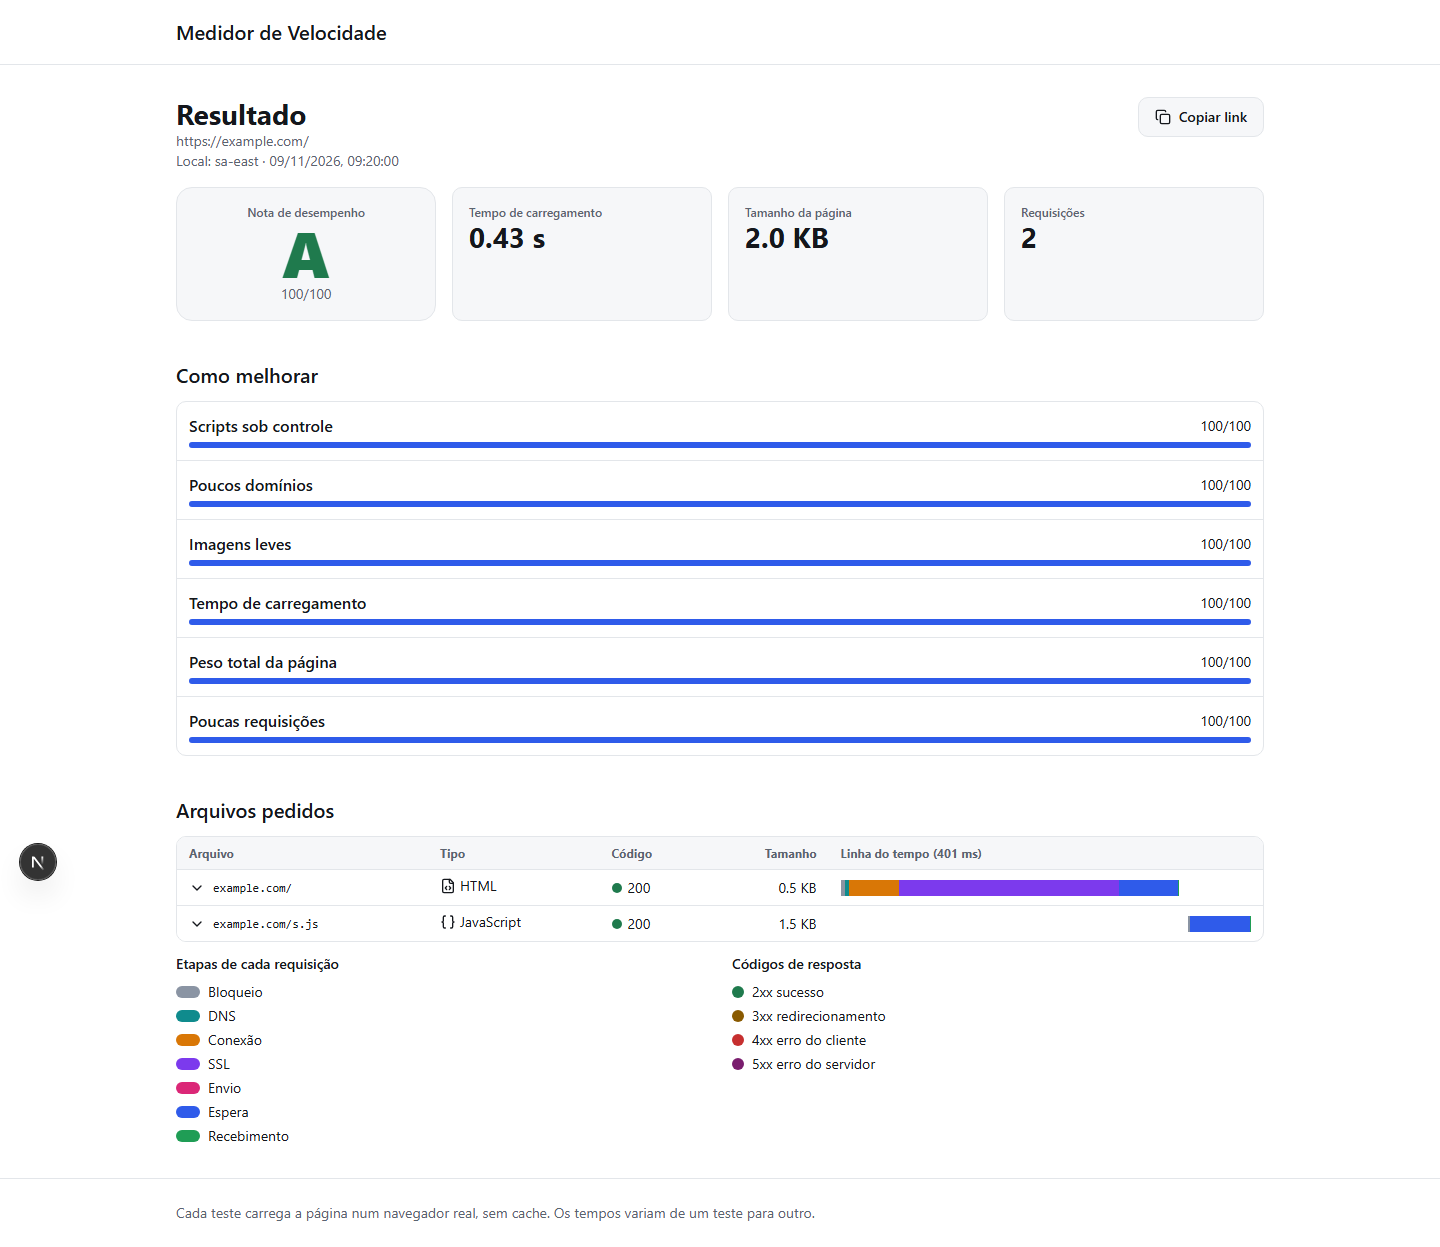
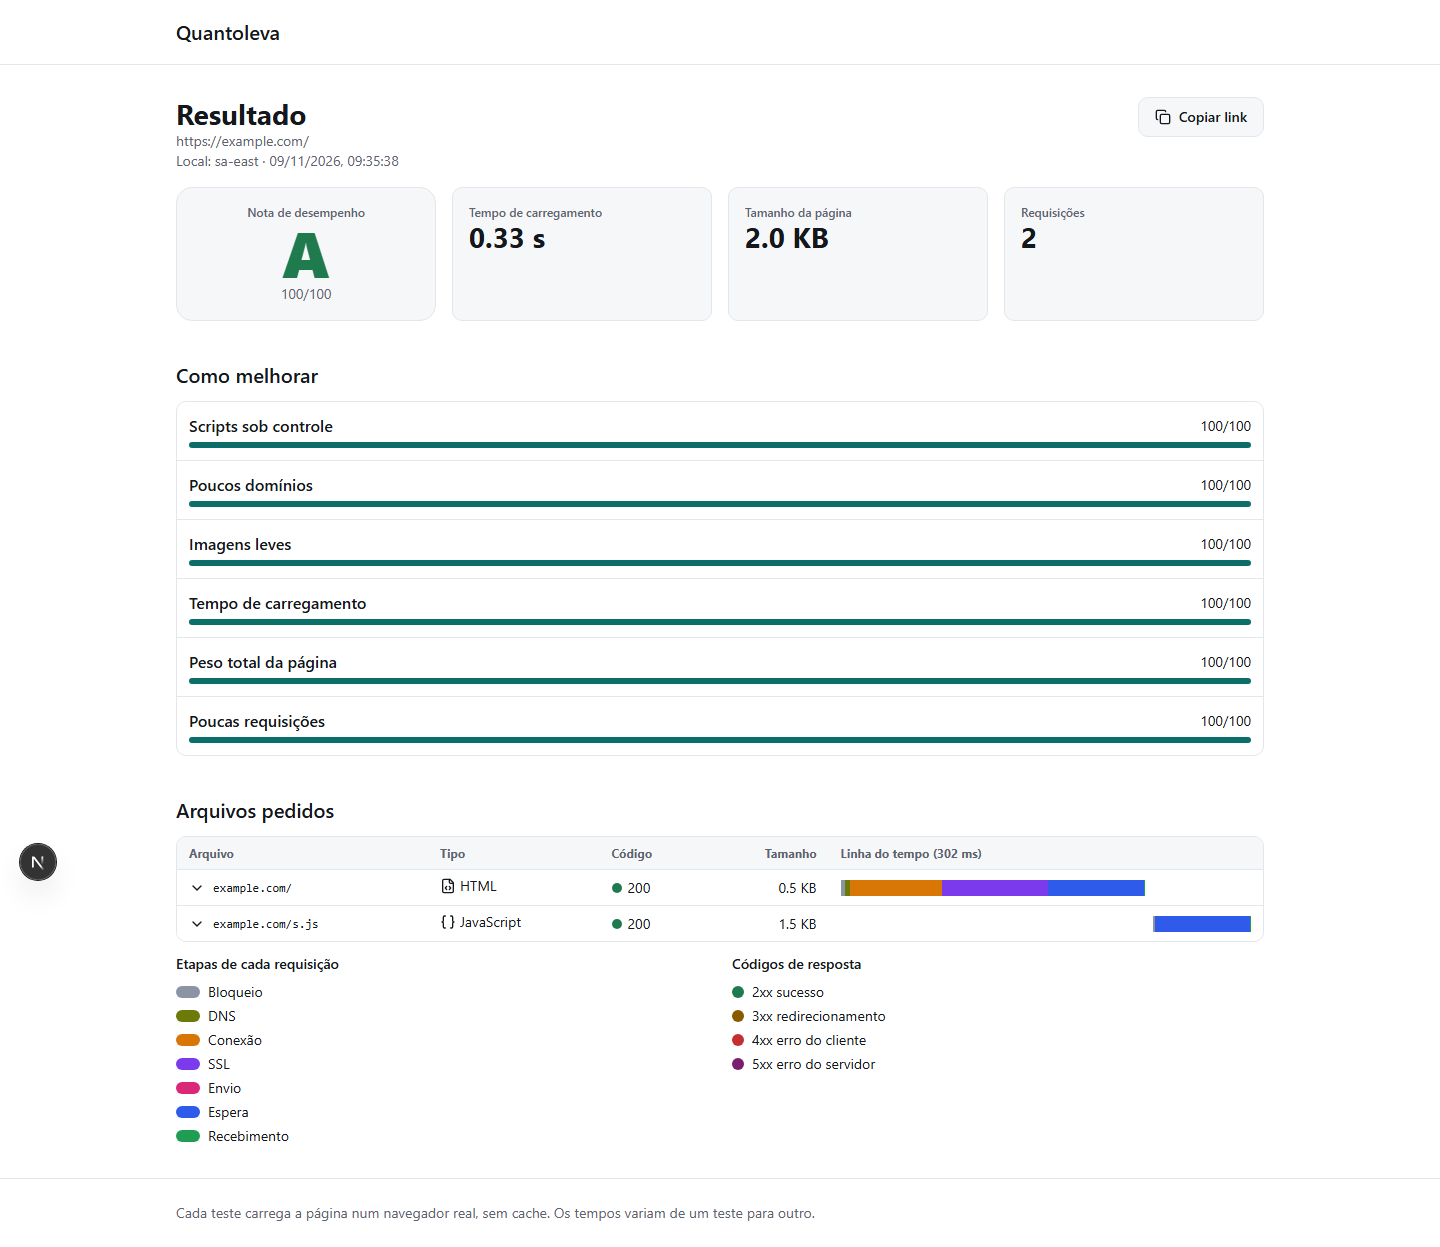
brand: working name, teal palette, voice and clean sweep

diff --git a/src/app/layout.tsx b/src/app/layout.tsx
@@ -1,10 +1,11 @@
 import type { Metadata } from "next";
 import Link from "next/link";
+import { BRAND } from "@/lib/brand";
 import "./globals.css";
 
 export const metadata: Metadata = {
-  title: "Medidor de Velocidade",
-  description: "Teste a velocidade de carregamento de qualquer página e veja onde o tempo é gasto.",
+  title: `${BRAND.name}: ${BRAND.tagline}`,
+  description: "Carregamos a sua página num navegador de verdade e mostramos o tempo, o peso e cada arquivo pedido.",
 };
 
 export default function RootLayout({ children }: { children: React.ReactNode }) {
@@ -13,7 +14,7 @@ export default function RootLayout({ children }: { children: React.ReactNode }) 
       <body>
         <header className="border-b border-border">
           <div className="mx-auto flex h-16 max-w-content items-center px-4">
-            <Link href="/" className="text-lg font-semibold">Medidor de Velocidade</Link>
+            <Link href="/" className="text-lg font-semibold">{BRAND.name}</Link>
           </div>
         </header>
         <main className="mx-auto max-w-content px-4 py-8">{children}</main>

diff --git a/src/app/page.tsx b/src/app/page.tsx
@@ -1,6 +1,7 @@
 import { TestForm } from "@/components/TestForm";
 import { Legend } from "@/components/Legend";
 import { listLocations } from "@/lib/data";
+import { BRAND } from "@/lib/brand";
 
 export const dynamic = "force-dynamic"; // the location list depends on live workers
 
@@ -9,9 +10,9 @@ export default async function Home() {
   return (
     <div className="space-y-12">
       <section className="mx-auto max-w-2xl space-y-6 text-center">
-        <h1 className="text-display">Quão rápida é a sua página?</h1>
+        <h1 className="text-display">{BRAND.tagline}</h1>
         <p className="text-muted">
-          Informe um endereço, escolha de onde testar e veja o tempo de carregamento, o peso e cada arquivo pedido.
+          Cole o endereço e escolha de onde testar. Mostramos o tempo, o peso e cada arquivo que a página pede.
         </p>
         <TestForm locations={locations} />
       </section>

diff --git a/replica/design/tokens.css b/replica/design/tokens.css
@@ -6,7 +6,7 @@
   --border-input: #868e98;
   --text: #14171c;
   --text-muted: #5b6470;
-  --accent: #2f5bea;
+  --accent: #0b6e69;
   --on-accent: #ffffff;
   --danger: #c62f2f;
   --success: #1f7a4d;
@@ -20,7 +20,7 @@
   --grade-f: #8f1d1d;
 
   --wf-blocked: #8a94a3;
-  --wf-dns: #0f8b8d;
+  --wf-dns: #6d7a0a;
   --wf-connect: #d97706;
   --wf-ssl: #7c3aed;
   --wf-send: #db2777;

diff --git a/src/app/tokens.css b/src/app/tokens.css
@@ -6,7 +6,7 @@
   --border-input: #868e98;
   --text: #14171c;
   --text-muted: #5b6470;
-  --accent: #2f5bea;
+  --accent: #0b6e69;
   --on-accent: #ffffff;
   --danger: #c62f2f;
   --success: #1f7a4d;
@@ -20,7 +20,7 @@
   --grade-f: #8f1d1d;
 
   --wf-blocked: #8a94a3;
-  --wf-dns: #0f8b8d;
+  --wf-dns: #6d7a0a;
   --wf-connect: #d97706;
   --wf-ssl: #7c3aed;
   --wf-send: #db2777;

diff --git a/src/lib/brand.ts b/src/lib/brand.ts
@@ -1,0 +1,5 @@
+// One place for the working name. Change it here (and in replica/brand.json) if the name changes.
+export const BRAND = {
+  name: "Quantoleva",
+  tagline: "Quanto leva para a sua página carregar?",
+} as const;

diff --git a/replica/brand.md b/replica/brand.md
@@ -1,0 +1,75 @@
+# Brand
+
+Working name: **Quantoleva** (change in `src/lib/brand.ts` and `replica/brand.json`).
+Angle (from `fixes.md`, option A): for site owners who do not trust one number from one place, test from where visitors are, run it three times, show the range. Be careful: only the "real browser, every file" part is true today (one location, one run). Copy must not promise more.
+
+## Names
+20 candidates tried. Short dictionary words (Prumo, Triplo, Sondar, Trena, Longitude, Carregou) were all taken on .com, .com.br and GitHub. Dropped `pingmedida` for sounding like the original.
+
+Shortlist of 5, all invented or compound, none echoing the original:
+1. **Quantoleva** ("how long does it take", spoken Brazilian Portuguese). Recommended: easy to say and remember, fits "time" and a casual voice.
+2. **Veloscópio** (velocity + scope, invented). Distinctive, more technical.
+3. **Ondecarrega** ("where it loads"). Ties straight to the location angle, but longer.
+4. **Carregômetro** ("load meter"). Descriptive, hard to protect as a trademark.
+5. **Triplotempo** ("triple time", the 3 runs). Only makes sense once the 3-run feature ships.
+
+Tradeoff: Quantoleva is Portuguese-only. If you plan for English speakers, choose Veloscópio.
+
+## Checks (screening, not legal clearance)
+Run on 2026-11-09 from this machine. "free?" means the registry or API answered "not found", **not** that it is safe to buy or use.
+
+| name | .com (Verisign RDAP) | .com.br (Registro.br RDAP) | GitHub user/org | INPI Brazil | USPTO | EUIPO | WIPO | App Store / Play | X, Instagram, TikTok | web search |
+| --- | --- | --- | --- | --- | --- | --- | --- | --- | --- | --- |
+| quantoleva | free? | free? | free? | to run | to run | to run | to run | to run | to run | to run |
+| veloscopio | free? | free? | free? | to run | to run | to run | to run | to run | to run | to run |
+| ondecarrega | free? | free? | free? | to run | to run | to run | to run | to run | to run | to run |
+| carregometro | free? | free? | free? | to run | to run | to run | to run | to run | to run | to run |
+| triplotempo | free? | free? | free? | to run | to run | to run | to run | to run | to run | to run |
+
+To run yourself: INPI (busca.inpi.gov.br, classes 9, 42 and 35), USPTO (tmsearch.uspto.gov), EUIPO eSearch, WIPO Global Brand Database, the exact name in the App Store and Google Play, social handles, a web search for "name + teste de velocidade". Before paying for the name, get a trademark lawyer in your country to do a proper search. Domains: register nothing until the trademark search is clean.
+
+## Palette
+New brand colour: deep teal `#0b6e69` (white text on it: 6.09:1). The original's brand family is orange/yellow, so this is a different family; the earlier placeholder blue was not the original's either.
+To avoid clashes, the waterfall DNS colour moved from teal to olive `#6d7a0a`.
+`python3 contrast.py replica/design/tokens.json`: 30 pairs, 0 failing AA.
+The original's exact brand hexes were not measured (no reference screenshots), so `brand.json` has no `colors` yet. Add them once you have prints, then re-run the sweep.
+
+## Logo brief
+- Idea: a stopwatch hand that fans out into three lines of different length, one per run, for "time, and the range". Keep it flat, teal on white.
+- Mark: symbol plus wordmark "Quantoleva" in a rounded sans (Inter or similar open font).
+- Must work at 16 px (favicon: the symbol only, drop the fine lines) and as a 1024 px app icon.
+- Deliverables: SVG; app icon 1024x1024 without transparency; favicon set; social image 1200x630.
+- Must not resemble the original's mark: no shared shape, colour pair or letterform trick. Put the original's logo next to the drafts and check before approving.
+- Not done: no logo exists yet, the header shows the name in text only.
+
+## Voice
+Three words:
+- **Direct, not curt.** Say the number, then what it means.
+- **Honest about doubt, not vague.** Say when a result varies; never hide behind "may".
+- **Practical, not technical.** Name the file and the fix, skip the jargon.
+
+| do | don't |
+| --- | --- |
+| "Carregou em 2,1 s." | "Seu desempenho foi calculado com sucesso." |
+| "Esse arquivo pesa 1,2 MB. Reduza a imagem." | "Otimize seus ativos." |
+| "Não conseguimos abrir essa página." | "Erro 500." |
+| "Os tempos mudam de um teste para outro." | "Resultado definitivo." |
+| "Tente de novo em alguns minutos." | "Limite de requisições excedido." |
+
+## The 10 most-seen strings (all written fresh, in this voice)
+| where | string |
+| --- | --- |
+| page title | "Quantoleva: Quanto leva para a sua página carregar?" |
+| hero | "Quanto leva para a sua página carregar?" |
+| hero text | "Cole o endereço e escolha de onde testar. Mostramos o tempo, o peso e cada arquivo que a página pede." |
+| main button | "Iniciar teste" |
+| invalid URL | "Esse endereço não parece válido. Exemplo: exemplo.com.br" |
+| blocked | "Esse endereço não pode ser testado (rede interna ou porta não permitida)." |
+| waiting | "Abrindo a página e medindo cada arquivo…" |
+| slow wait | "Está demorando mais que o normal. Você pode esperar ou tentar de novo." |
+| unreachable | "Não conseguimos abrir essa página. Confira o endereço e se o site está no ar." |
+| footer | "Cada teste carrega a página num navegador real, sem cache. Os tempos variam de um teste para outro." |
+
+## Sweep
+`python3 sweep.py . --config replica/brand.json`: **clean** (no "Pingdom", "SolarWinds" or their domains outside the `replica/` planning folder, which never ships). Checked by `grep` as well. Not checked: favicon (none yet), OG image (none yet), email templates (none), app icon (none).
+The project folder is still called `replica-pingdom`; rename it (and any repository name) before publishing anything.
